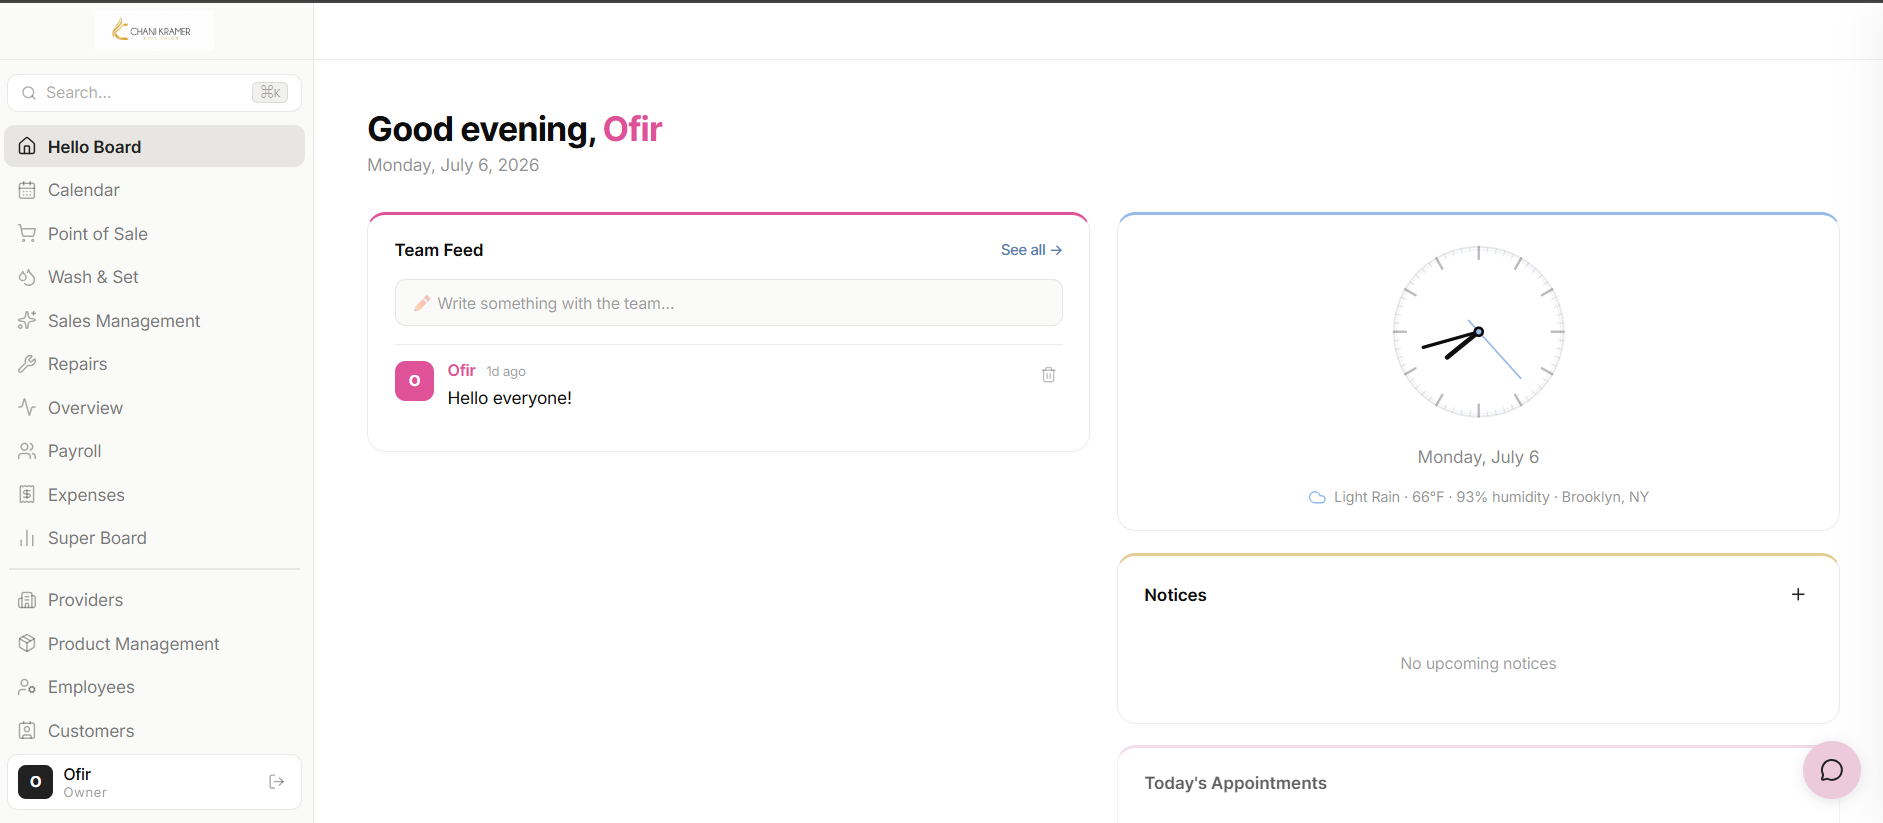
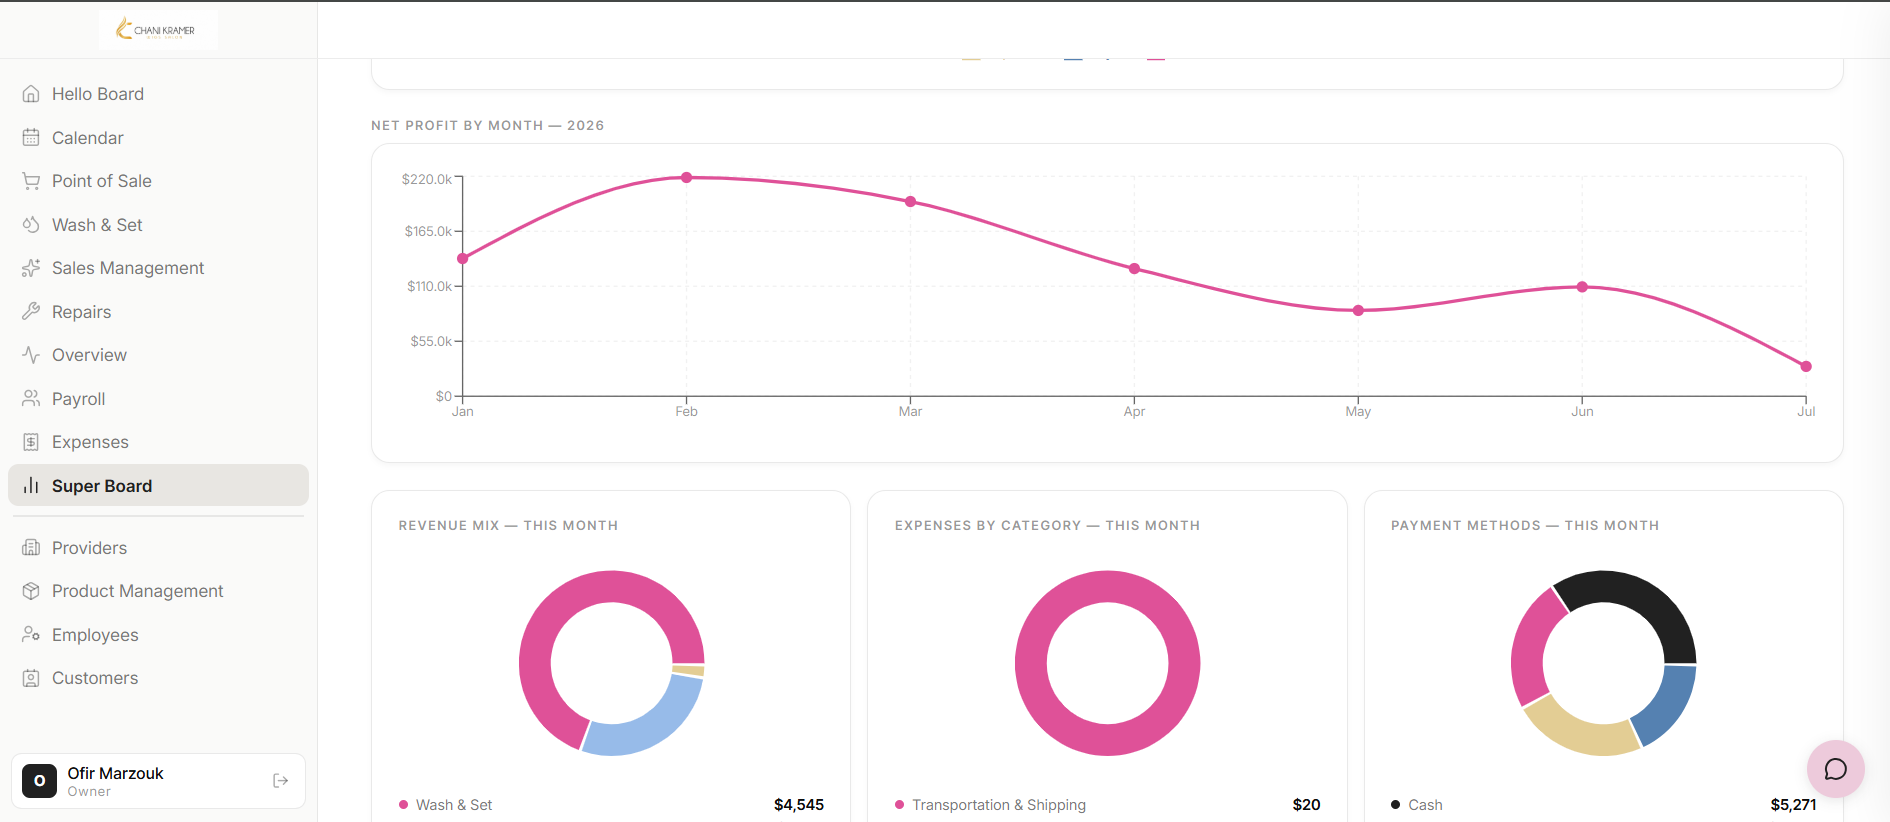
Update portfolio: add live URLs for Brixxel, Contracts, Urbania, Salon; update Salon image

diff --git a/portfolio/index.html b/portfolio/index.html
@@ -693,13 +693,13 @@
         title:       'Brixxel — Real Estate Digital Twin',
         description: 'Digital Twins SaaS platform where properties are viewed as 3D models and handled by an orchestrated team of AI agents — finance management, admin dashboards, automations, document vault, maintenance tracking, and more.\n\nFrontend: React, TypeScript, React Three Fiber, IFC.js, Tailwind, Zustand\nBackend: Python, FastAPI, Celery, Redis\nDatabase: PostgreSQL + pgvector, SQLAlchemy, Alembic\nAI: Claude API, LlamaIndex (RAG)\nAuth: Supabase Auth + JWT\nStorage: AWS S3 + CloudFront\nPayments: Stripe',
         image:       'assets/projects/Brixxel.png',
-        link:        'https://brixxel.vercel.app/',
+        link:        'https://thebullproperties.vercel.app/',
       },
       {
         title:       'The Bull Contracts',
         description: 'AI-powered legal process management platform. Ingests contracts, extracts obligations and deadlines, tracks compliance, and automates reminders — freeing lawyers from admin work to focus on judgment.\n\nFrontend: React 18, TypeScript, Vite, Tailwind, Zustand\nDatabase: Supabase (PostgreSQL)\nAI: Claude API (claude-sonnet-4-6)\nAuth: Supabase Auth',
         image:       'assets/projects/Contracts.png',
-        link:        null,
+        link:        'https://the-bull-legal.vercel.app/',
       },
       {
         title:       'The Bull',
@@ -711,13 +711,13 @@
         title:       'Urbania',
         description: 'Business intelligence platform for real estate and construction companies. Department dashboards for CEO, acquisition, architecture, sales, customer service, permits, HR, finance, and clients. Includes an AI voice agent for querying organizational data.\n\nFrontend: React 18, TypeScript, Vite\nDatabase: Supabase (PostgreSQL)\nAuth: Supabase Auth',
         image:       'assets/projects/Urbania.png',
-        link:        null,
+        link:        'https://urbania-pi.vercel.app/',
       },
       {
         title:       'The Salon',
         description: 'Full-stack management system for a Brooklyn wig salon. Multi-role interface for owners, bookkeepers, and front-desk staff. Features: POS, payroll, inventory, appointment scheduling, and sales tracking — replacing a painful Google Sheets workflow.\n\nFrontend: React 19, TypeScript, Vite, Recharts\nDatabase: Supabase (PostgreSQL)\nAuth: Supabase Auth',
         image:       'assets/projects/The Salon.png',
-        link:        null,
+        link:        'https://chani-kramer-salon-hoth.vercel.app/',
       },
       {
         title:       'AI Data Visualizer',
